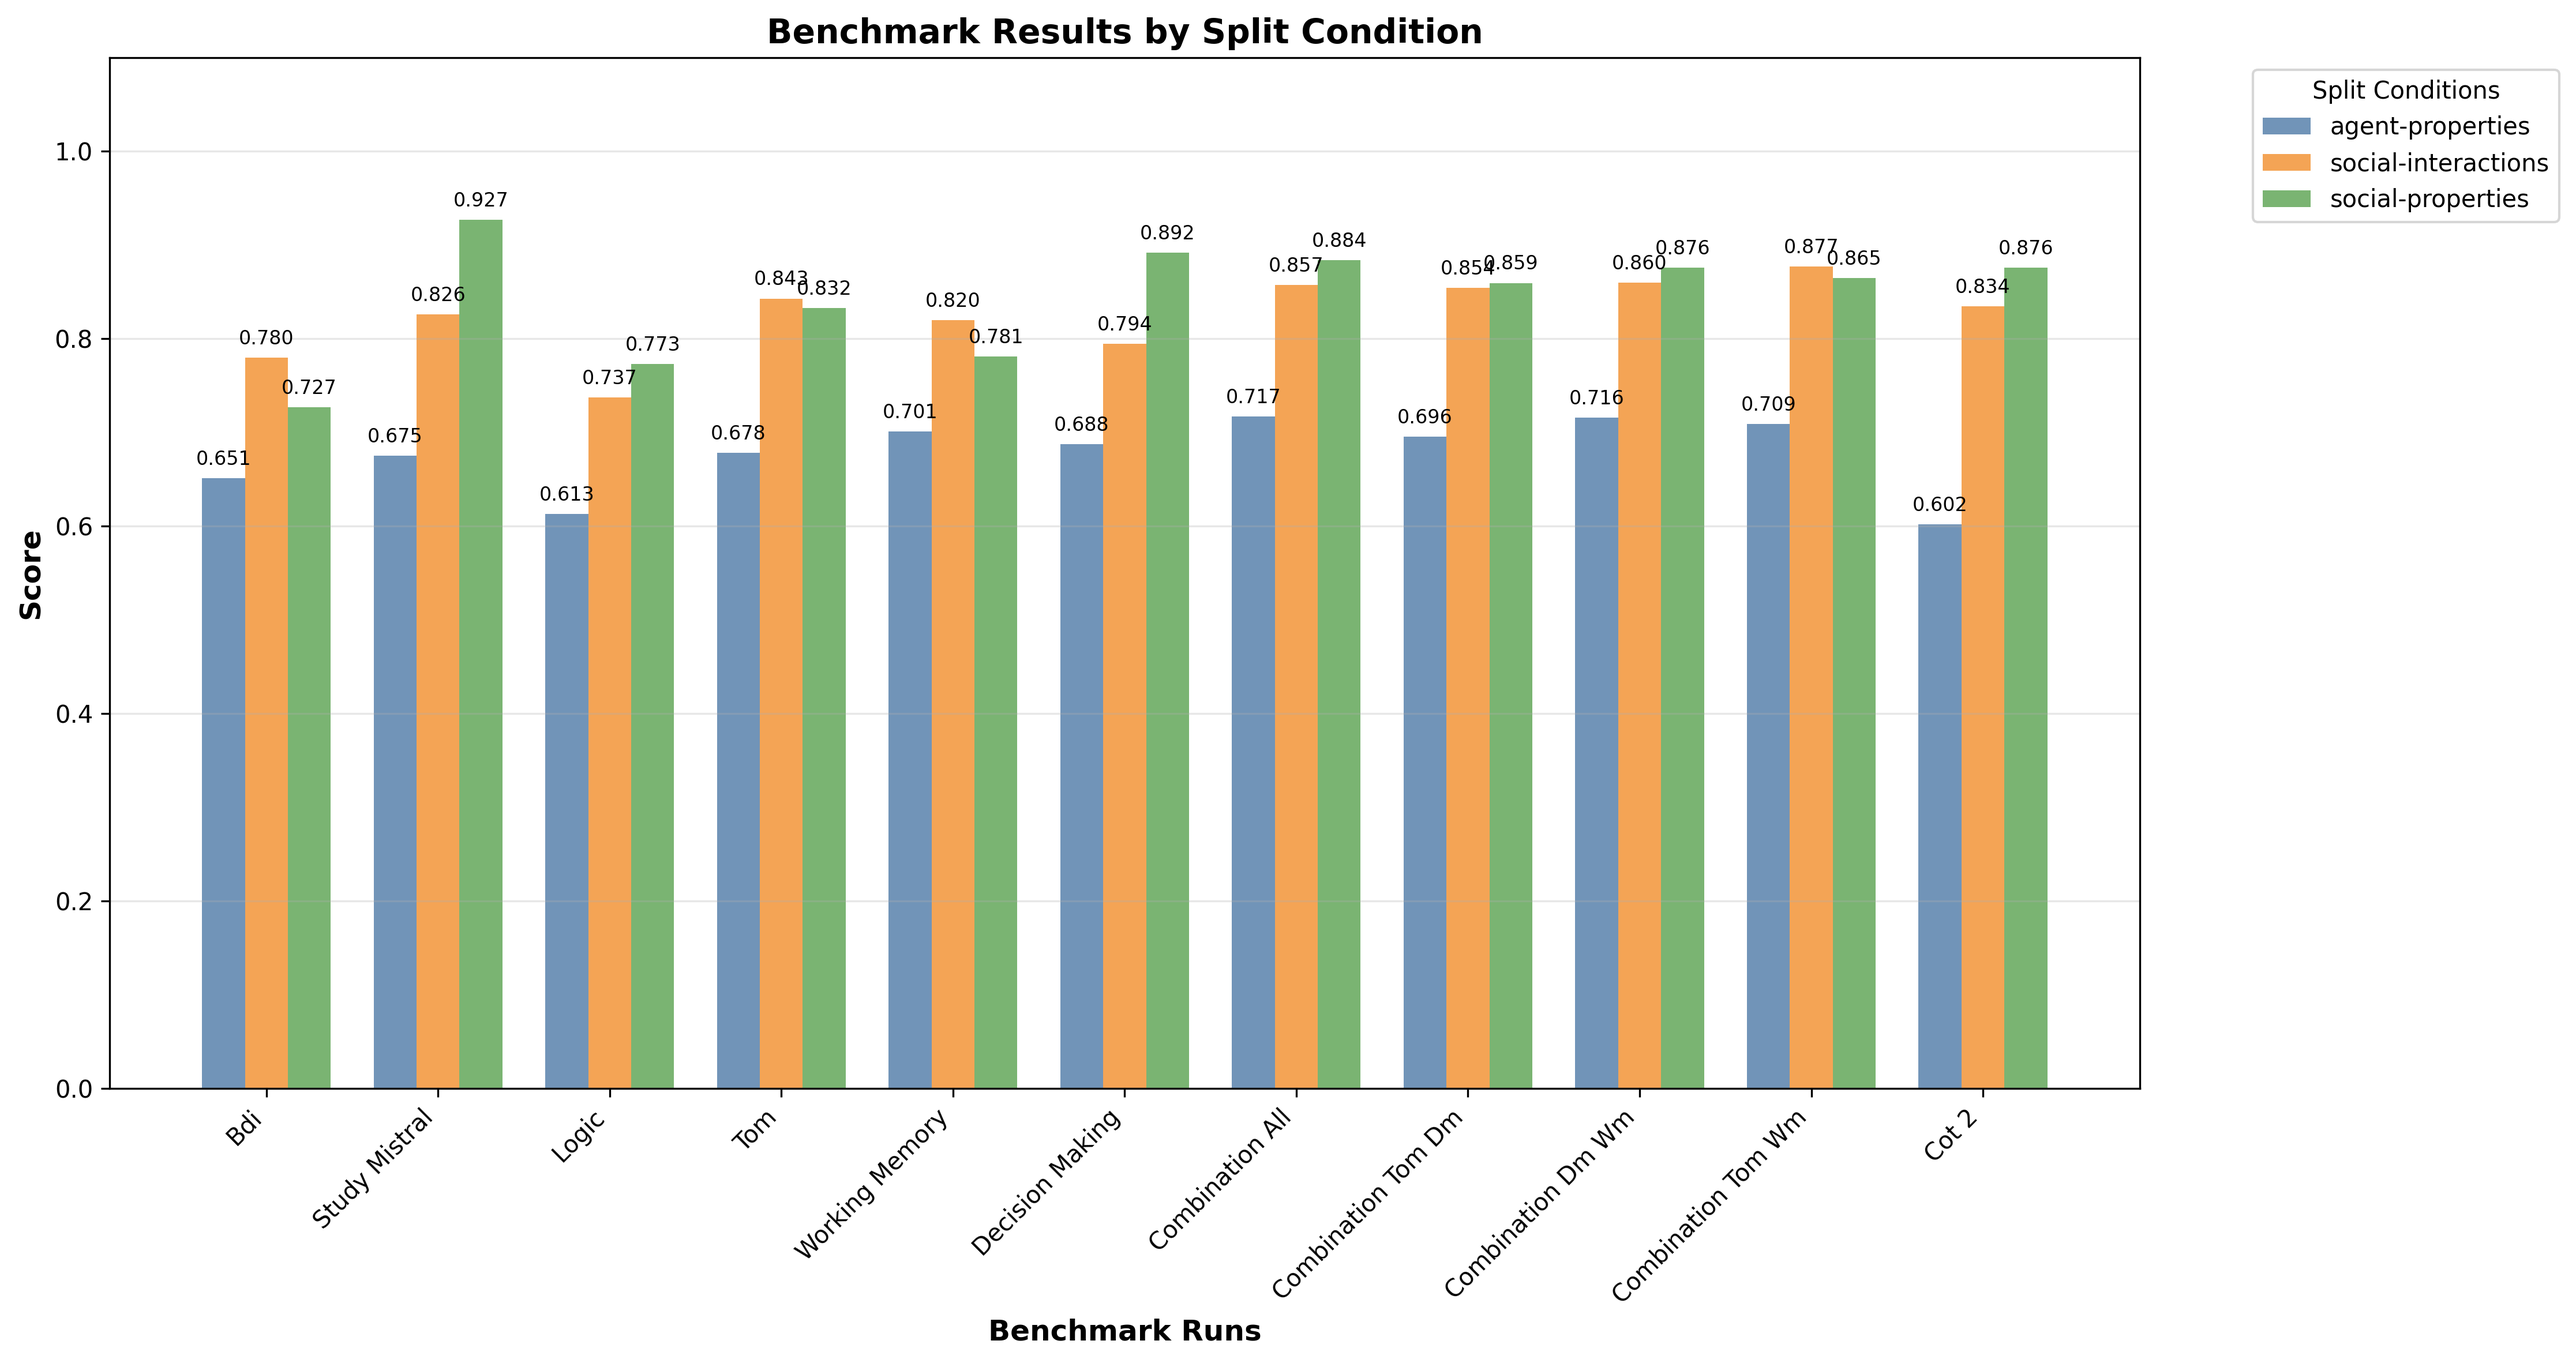
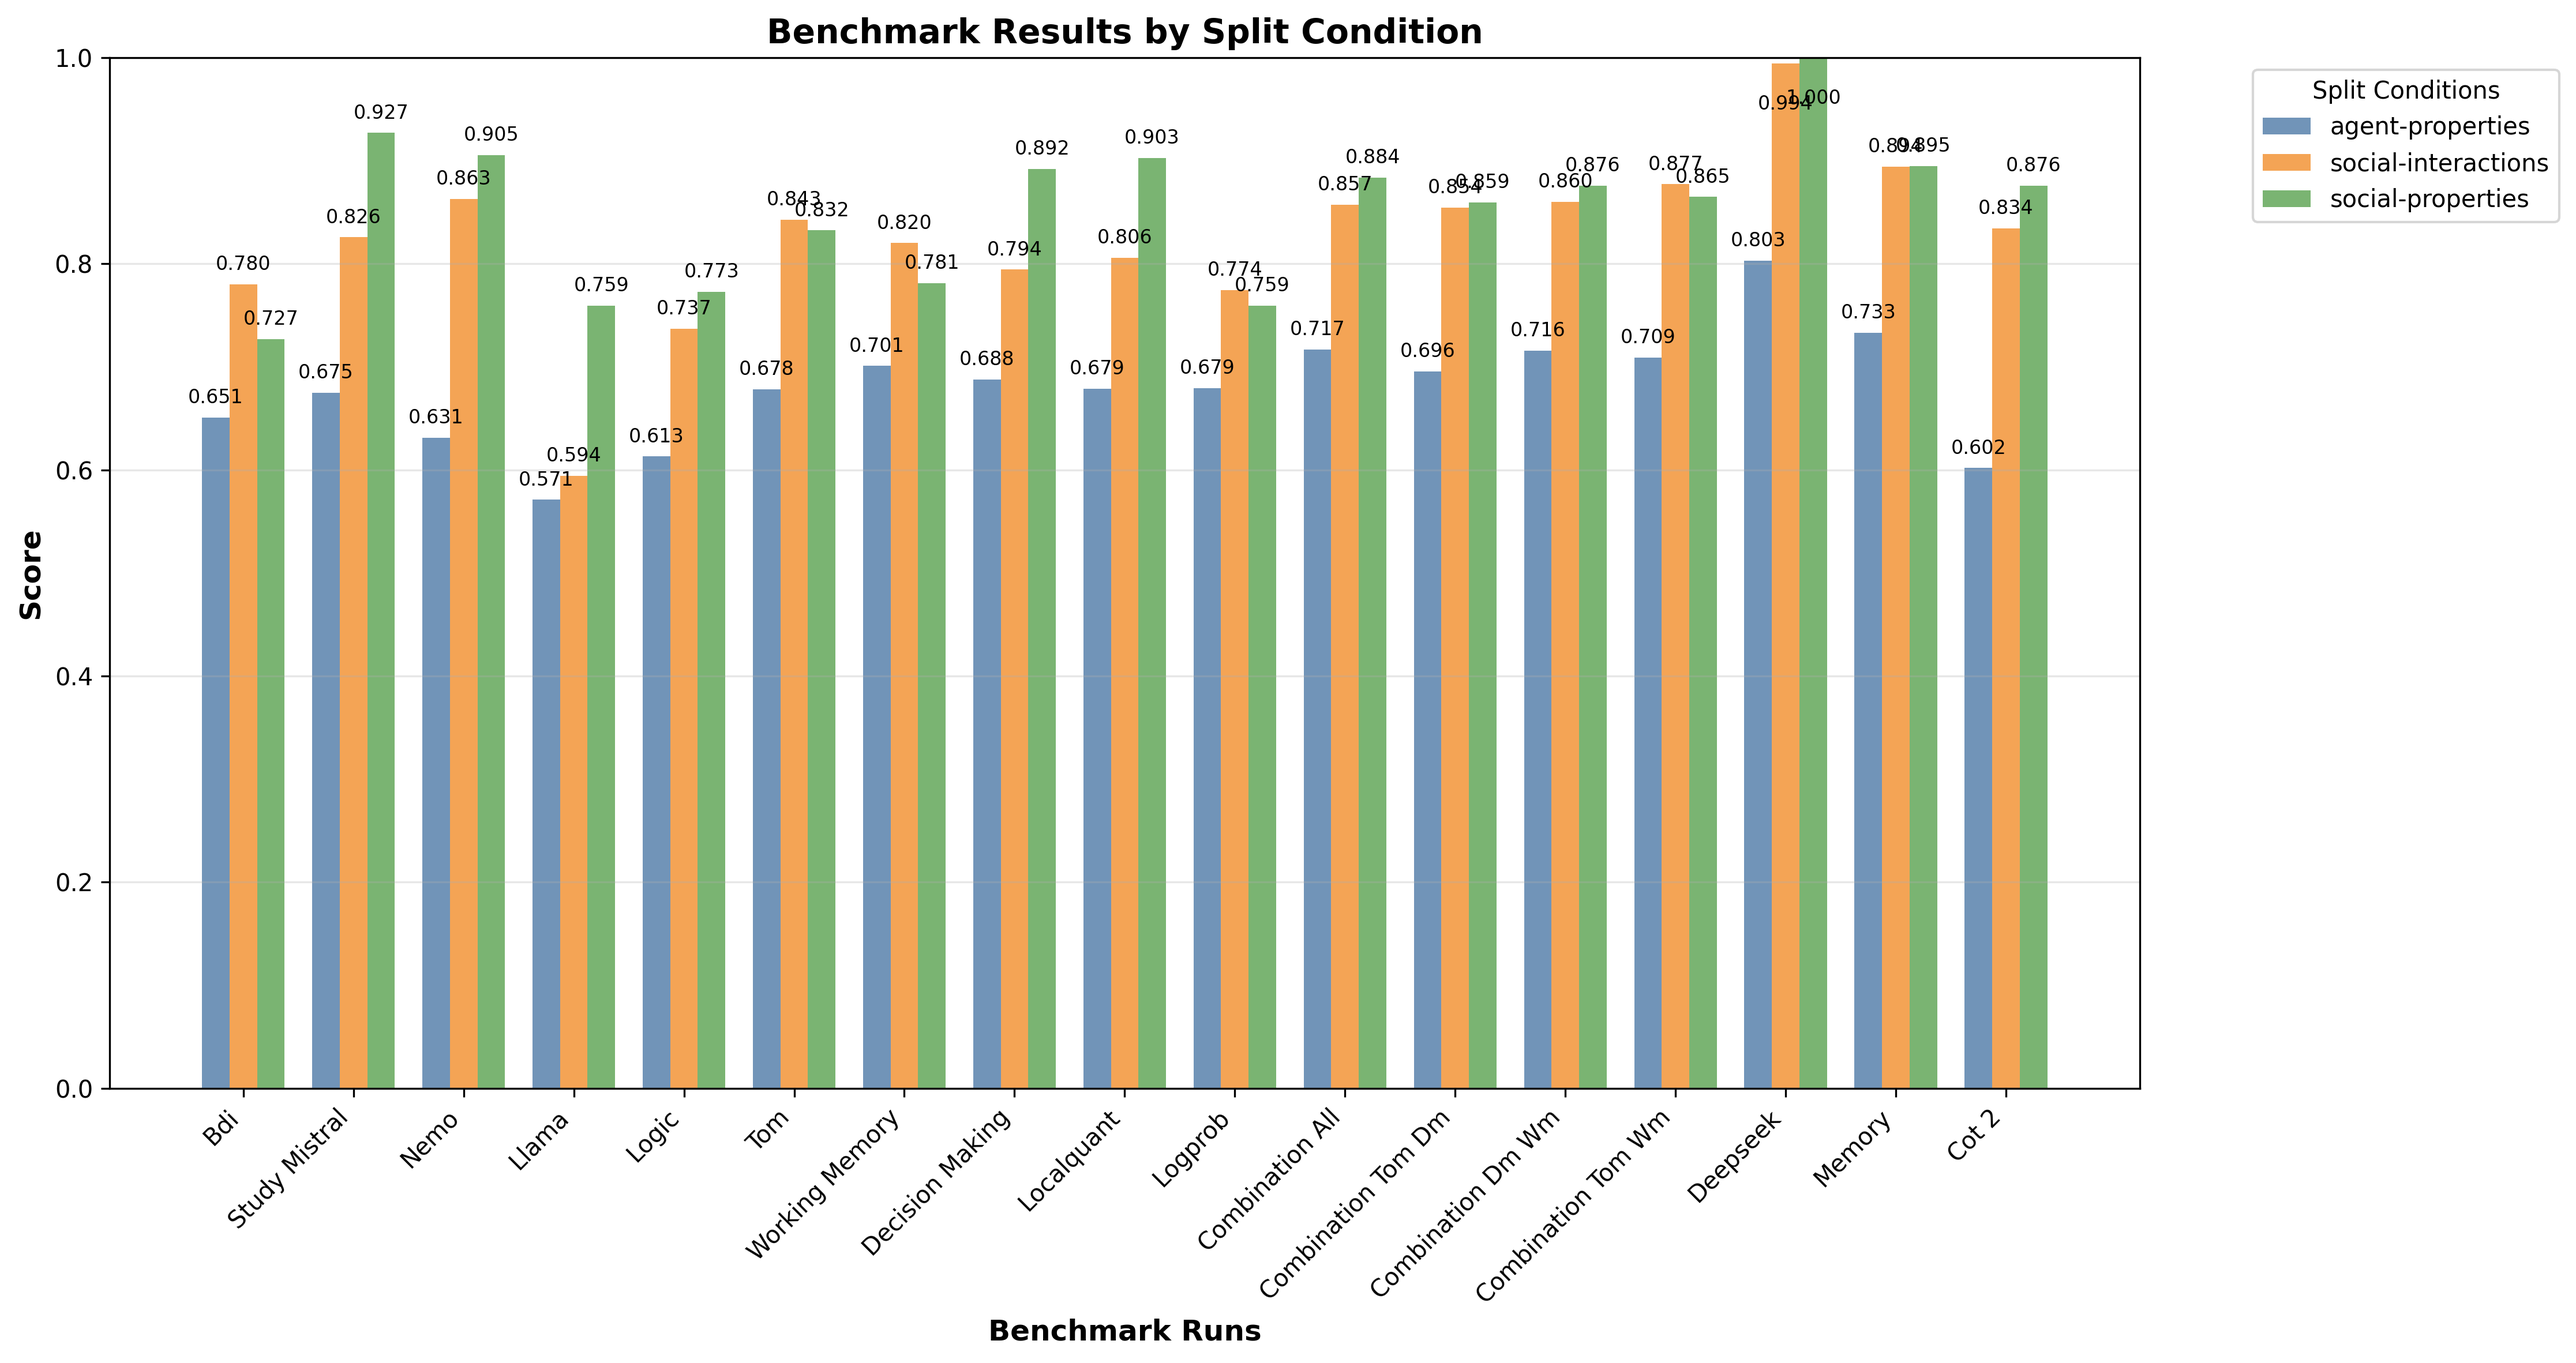
plotting fixes

diff --git a/visualize_results.py b/visualize_results.py
@@ -103,8 +103,13 @@ def create_bar_plot(data_df, output_file='benchmark_results.png'):
         # Add value labels on bars
         for bar, value in zip(bars, values):
             if not pd.isna(value) and value > 0:
-                ax.text(bar.get_x() + bar.get_width()/2, bar.get_height() + 0.01,
-                       f'{value:.3f}', ha='center', va='bottom', fontsize=8)
+                # If value is close to 1.0, place label below the bar
+                if value > 0.95:
+                    ax.text(bar.get_x() + bar.get_width()/2, bar.get_height() - 0.03,
+                           f'{value:.3f}', ha='center', va='top', fontsize=8)
+                else:
+                    ax.text(bar.get_x() + bar.get_width()/2, bar.get_height() + 0.01,
+                           f'{value:.3f}', ha='center', va='bottom', fontsize=8)
     
     # Customize the plot
     ax.set_xlabel('Benchmark Runs', fontsize=12, fontweight='bold')
@@ -114,7 +119,7 @@ def create_bar_plot(data_df, output_file='benchmark_results.png'):
     ax.set_xticklabels(data_df['run'], rotation=45, ha='right')
     ax.legend(title='Split Conditions', bbox_to_anchor=(1.05, 1), loc='upper left')
     ax.grid(True, alpha=0.3, axis='y')
-    ax.set_ylim(0, 1.1)  # Assuming scores are between 0 and 1
+    ax.set_ylim(0, 1.0)  # Scores are between 0 and 1
     
     # Adjust layout to prevent label cutoff
     plt.tight_layout()
